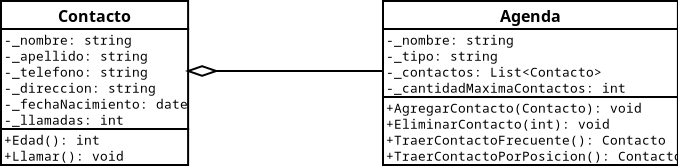
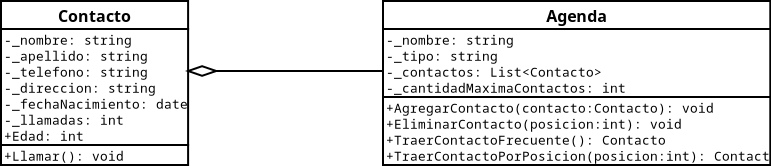
Implementar cantidad maxima de contacto. Limpiar propiedades

diff --git a/ProyectoAgenda.InterfazConsola/Program.cs b/ProyectoAgenda.InterfazConsola/Program.cs
@@ -9,7 +9,7 @@ namespace ProyectoAgenda.InterfazConsola
         public static void Main()
         {
             int opcionMenu;
-            Agenda agenda = new Agenda("Agenda", "agenda", 10);
+            Agenda agenda = new Agenda("Agenda", "agenda", 100);
 
             do
             {
@@ -60,6 +60,12 @@ namespace ProyectoAgenda.InterfazConsola
 
                     case 3: // Agregar contacto
                     {
+                        if (agenda.Contactos.Count() >= agenda.CantidadMaximaContactos)
+                        {
+                            InputHelper.PedirContinuacion("Agenda llena");
+                            break;
+                        }
+
                         string nombre = InputHelper.PedirString("Ingresar nombre:");
                         string apellido = InputHelper.PedirString("Ingresar apellido:");
                         string telefono = InputHelper.PedirString("Ingresar telefono:");
@@ -67,9 +73,18 @@ namespace ProyectoAgenda.InterfazConsola
                         DateTime fechaNacimiento = InputHelper.PedirStringFecha("Ingresar fecha de nacimiento:");
 
                         Contacto nuevoContacto = new Contacto(nombre, apellido, telefono, direccion, fechaNacimiento);
-                        agenda.AgregarContacto(nuevoContacto);
 
-                        InputHelper.PedirContinuacion("Contacto agregado");
+                        try
+                        {
+                            agenda.AgregarContacto(nuevoContacto);
+                            Console.WriteLine("Contacto agregado");
+                        }
+                        catch (Exception e)
+                        {
+                            Console.WriteLine("Agenda llena");
+                        }
+
+                        InputHelper.PedirContinuacion();
                         break;
                     }
 

diff --git a/ProyectoAgenda.Servicios/Entities/Contacto.cs b/ProyectoAgenda.Servicios/Entities/Contacto.cs
@@ -34,35 +34,26 @@ namespace ProyectoAgenda.Servicios.Entities
             get { return _apellido; }
         }
 
-        public string Direccion
-        {
-            get { return _direccion; }
-        }
-
-        public string Telefono
-        {
-            get { return _telefono; }
-        }
-
         public int Llamadas
         {
             get { return _llamadas; }
         }
 
+        private int Edad
+        {
+            get
+            {
+                int age = DateTime.Today.Year - _fechaNacimiento.Year;
+                if (DateTime.Today < _fechaNacimiento.AddYears(age)) age--;
+
+                return age;
+            }
+        }
+
         // Metodos
         public override string ToString()
         {
-            return $"{_nombre} {_apellido} ({Edad()} años)\n{_telefono}\n{_direccion}";
-        }
-
-        /// <summary> Devuelve la edad del contacto.</summary>
-        /// <returns type="int">Edad del contacto</returns>
-        public int Edad()
-        {
-            int age = DateTime.Today.Year - _fechaNacimiento.Year;
-            if (DateTime.Today < _fechaNacimiento.AddYears(age)) age--;
-
-            return age;
+            return $"{_nombre} {_apellido} ({Edad} años)\n{_telefono}\n{_direccion}";
         }
 
         public void Llamar()

diff --git a/ProyectoAgenda.Servicios/Entities/Agenda.cs b/ProyectoAgenda.Servicios/Entities/Agenda.cs
@@ -1,6 +1,5 @@
 using System;
 using System.Collections.Generic;
-using System.Linq;
 
 namespace ProyectoAgenda.Servicios.Entities
 {
@@ -46,8 +45,10 @@ namespace ProyectoAgenda.Servicios.Entities
 
         /// <summary>Recibe un contacto y lo agrega a la lista de contactos de la agenda.</summary>
         /// <param name="contacto" type="Contacto">Contacto a agregar</param>
+        /// <exception cref="InvalidOperationException">Si se alcanzo la cantidad maxima de contactos.</exception>
         public void AgregarContacto(Contacto contacto)
         {
+            if (_contactos.Count >= _cantidadMaximaContactos) throw new InvalidOperationException();
             _contactos.Add(contacto);
         }
 
